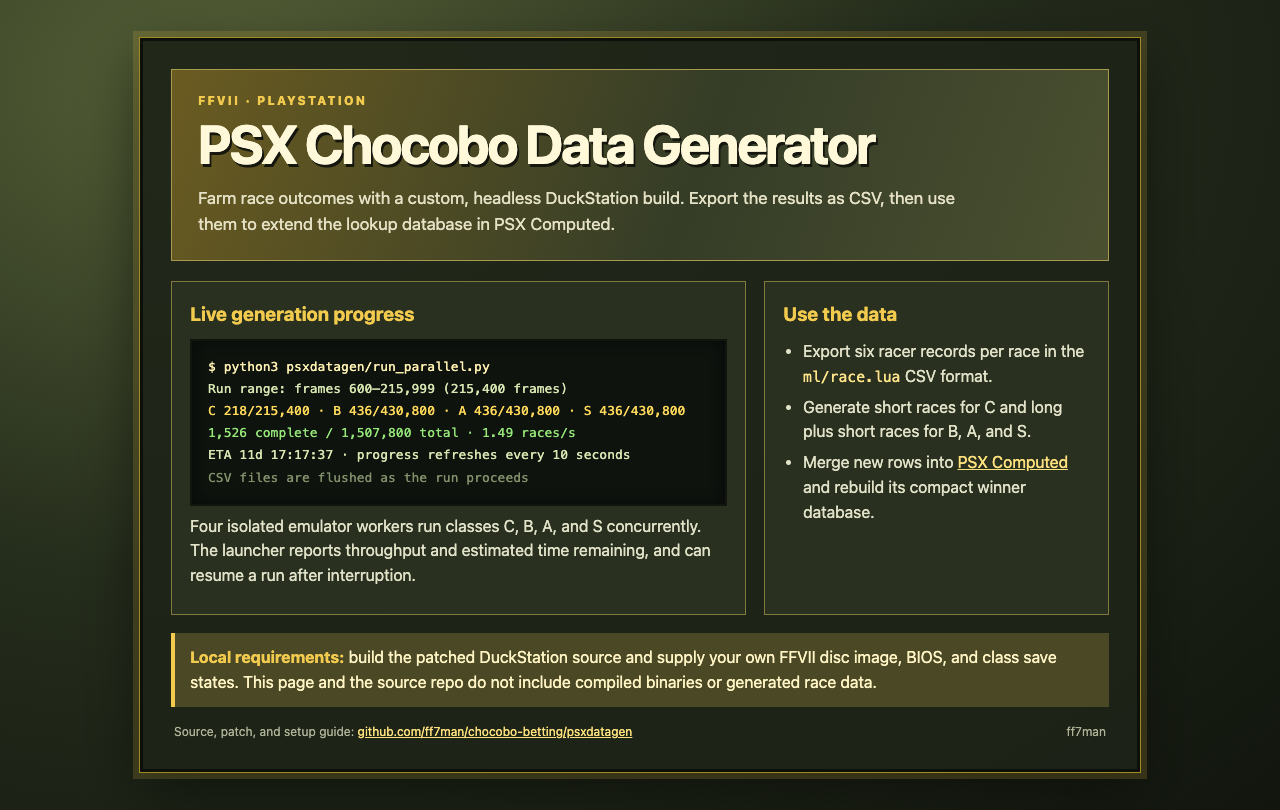
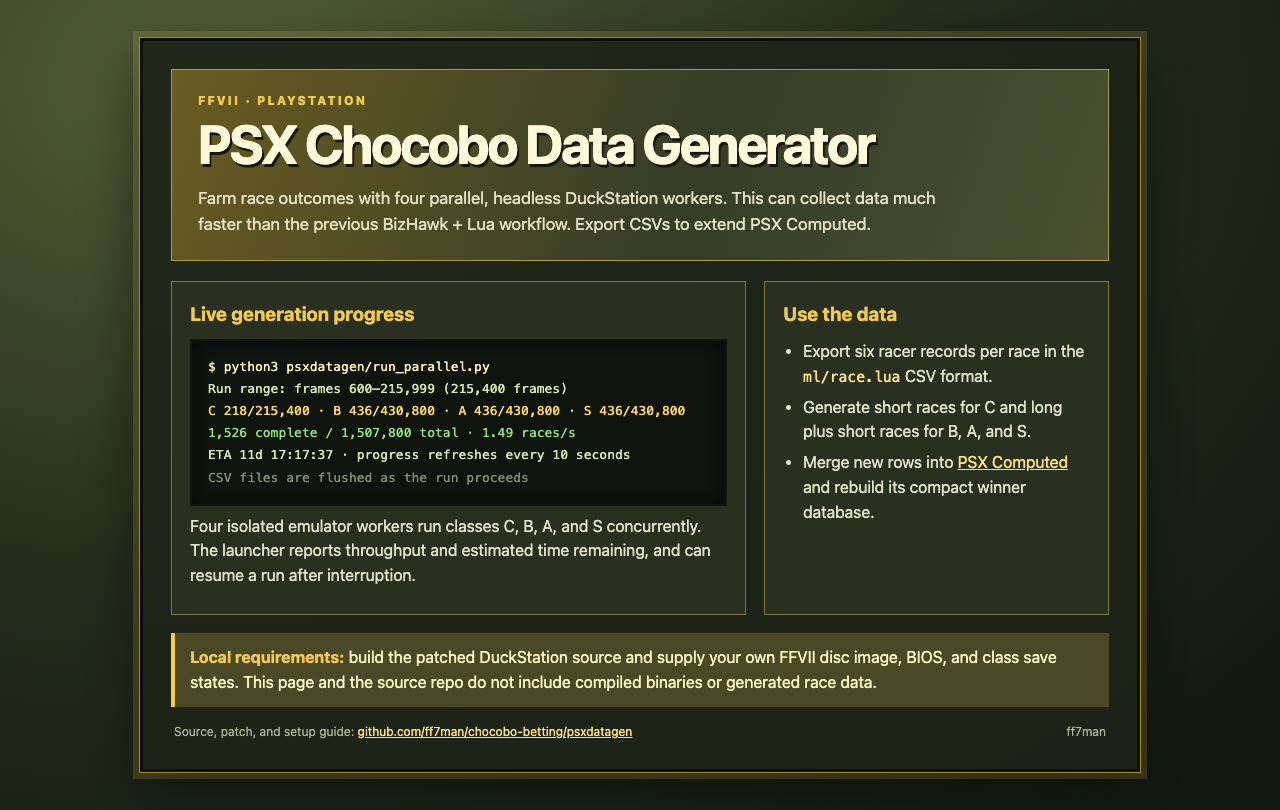
Note data generation speed advantage

Changed region(s): [[0.2812, 0.216, 0.75, 0.3086], [0.1562, 0.2469, 0.25, 0.3086]]

diff --git a/psxdatagen/index.html b/psxdatagen/index.html
@@ -38,7 +38,7 @@
     <header>
       <div class="eyebrow">FFVII · PlayStation</div>
       <h1>PSX Chocobo Data Generator</h1>
-      <p class="lede">Farm race outcomes with a custom, headless DuckStation build. Export the results as CSV, then use them to extend the lookup database in PSX Computed.</p>
+      <p class="lede">Farm race outcomes with four parallel, headless DuckStation workers. This can collect data much faster than the previous BizHawk + Lua workflow. Export CSVs to extend PSX Computed.</p>
     </header>
     <div class="columns">
       <section>

diff --git a/psxdatagen/README.md b/psxdatagen/README.md
@@ -2,7 +2,7 @@
 
 ![PSX Chocobo Data Generator screenshot](screenshot.png)
 
-This tool runs a custom DuckStation build to farm PlayStation chocobo race data into CSV files. The CSV format matches the historical `ml/race.lua` data and can be imported into **[PSX Computed](../psxcomputed/)** to expand its cached winner database. No generated race data, emulator build, BIOS, game image, or save states are included here.
+This tool runs four isolated custom DuckStation workers in parallel to farm PlayStation chocobo race data into CSV files. It can collect data much faster than the previous BizHawk + Lua workflow. The CSV format matches the historical `ml/race.lua` data and can be imported into **[PSX Computed](../psxcomputed/)** to expand its cached winner database. No generated race data, emulator build, BIOS, game image, or save states are included here.
 
 ## What it generates
 
